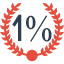
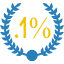
Exit prob sorted (0.01 missing)

diff --git a/awards/exit_probability.php b/awards/exit_probability.php
@@ -1,0 +1,66 @@
+<?php
+
+require_once "abstract_level.php";
+
+abstract class ExitProbability extends AbstractLevelAward {
+
+      public function get_name() {
+            return "Exit Probability " . $this->level;
+      }
+
+      public function get_icon() {
+            return $king ? "king.png" : "exit_prob_" . $this->level . ".png";
+      }
+
+      public function get_description() {
+            return "Over " . $this->fraction . "% mean exit probability fraction";
+      }
+
+      public function is_granted($relay) {
+            return $relay->exit_probability >= $this->fraction;
+      }
+}
+
+class ExitProbability1 extends ExitProbability {
+
+      public function __construct() {
+            parent::__construct(1, 0.001);
+      }
+}
+
+class ExitProbability2 extends ExitProbability {
+
+      public function __construct() {
+            parent::__construct(2, 0.01);
+      }
+}
+
+class ExitProbability3 extends ExitProbability {
+
+      public function __construct() {
+            parent::__construct(3, 0.1);
+      }
+}
+
+class ExitProbability4 extends ExitProbability {
+
+      public function __construct() {
+            parent::__construct(4, 0.5);
+      }
+}
+
+class ExitProbability5 extends ExitProbability {
+
+      public function __construct() {
+            parent::__construct(5, 1);
+      }
+}
+
+class ExitProbability6 extends ExitProbability {
+
+      public function __construct() {
+            parent::__construct(6, 2, true);
+      }
+}
+
+?>
